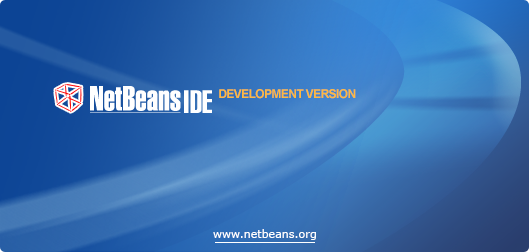
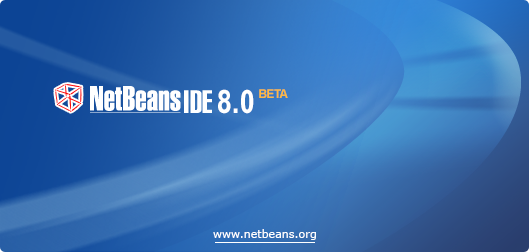
8.0 Beta branding.

Changed region(s): [[0.3932, 0.3333, 0.6957, 0.4444]]

diff --git a/installer/infra/build/web/js/build_info.js b/installer/infra/build/web/js/build_info.js
@@ -54,18 +54,19 @@ build_info.ADDITIONAL_BUILD_LOCATION   = "{alternative.languages.page.url}";
 
 build_info.BUILD_LOCATION = "";
 
-build_info.LOAD_OMNITURE_CODE          = 0;
-build_info.LOAD_GOOGLE_ANALYTICS_CODE  = 0;
+build_info.LOAD_OMNITURE_CODE          = 1;
+build_info.LOAD_GOOGLE_ANALYTICS_CODE  = 1;
 build_info.USE_BOUNCER                 = 0;
 build_info.ADD_VERSION_INFO_TO_URL     = 0;
 
 build_info.BOUNCER_URL = "http://services.netbeans.org/bouncer/index.php";
 
-build_info.USE_HTML_ZIP_LISTING = 0;
+build_info.USE_HTML_ZIP_LISTING = 1;
 
 build_info.add_download_tabs = function() {
 	add_download_tab("7.4", "http://netbeans.org/downloads/");
-	add_download_tab(DEVELOPMENT_TITLE /*,DEVELOPMENT_BUILDS_LINK*/);
+        add_download_tab("8.0 Beta");
+	add_download_tab(DEVELOPMENT_TITLE,DEVELOPMENT_BUILDS_LINK);
 	add_download_tab(ARCHIVE_TITLE,ARCHIVE_BUILDS_LINK);
 }
 add_build_info(build_info);

diff --git a/installer/infra/build/web/js/common_strings.js b/installer/infra/build/web/js/common_strings.js
@@ -62,8 +62,8 @@ BUNDLE_LONG_NAMES[2] = "C/C++";
 BUNDLE_LONG_NAMES[3] = "PHP";
 BUNDLE_LONG_NAMES[4] = "All";
 
-var RELEASE_NOTES_LINK  = "http://netbeans.org/community/releases/74/relnotes.html";
-var INSTALL_NOTES_LINK  = "http://netbeans.org/community/releases/74/install.html";
+var RELEASE_NOTES_LINK  = "http://netbeans.org/community/releases/80/relnotes.html";
+var INSTALL_NOTES_LINK  = "http://netbeans.org/community/releases/80/install.html";
 
 var LEGAL_INFO_HEADER = "Important Legal Information:";
 
